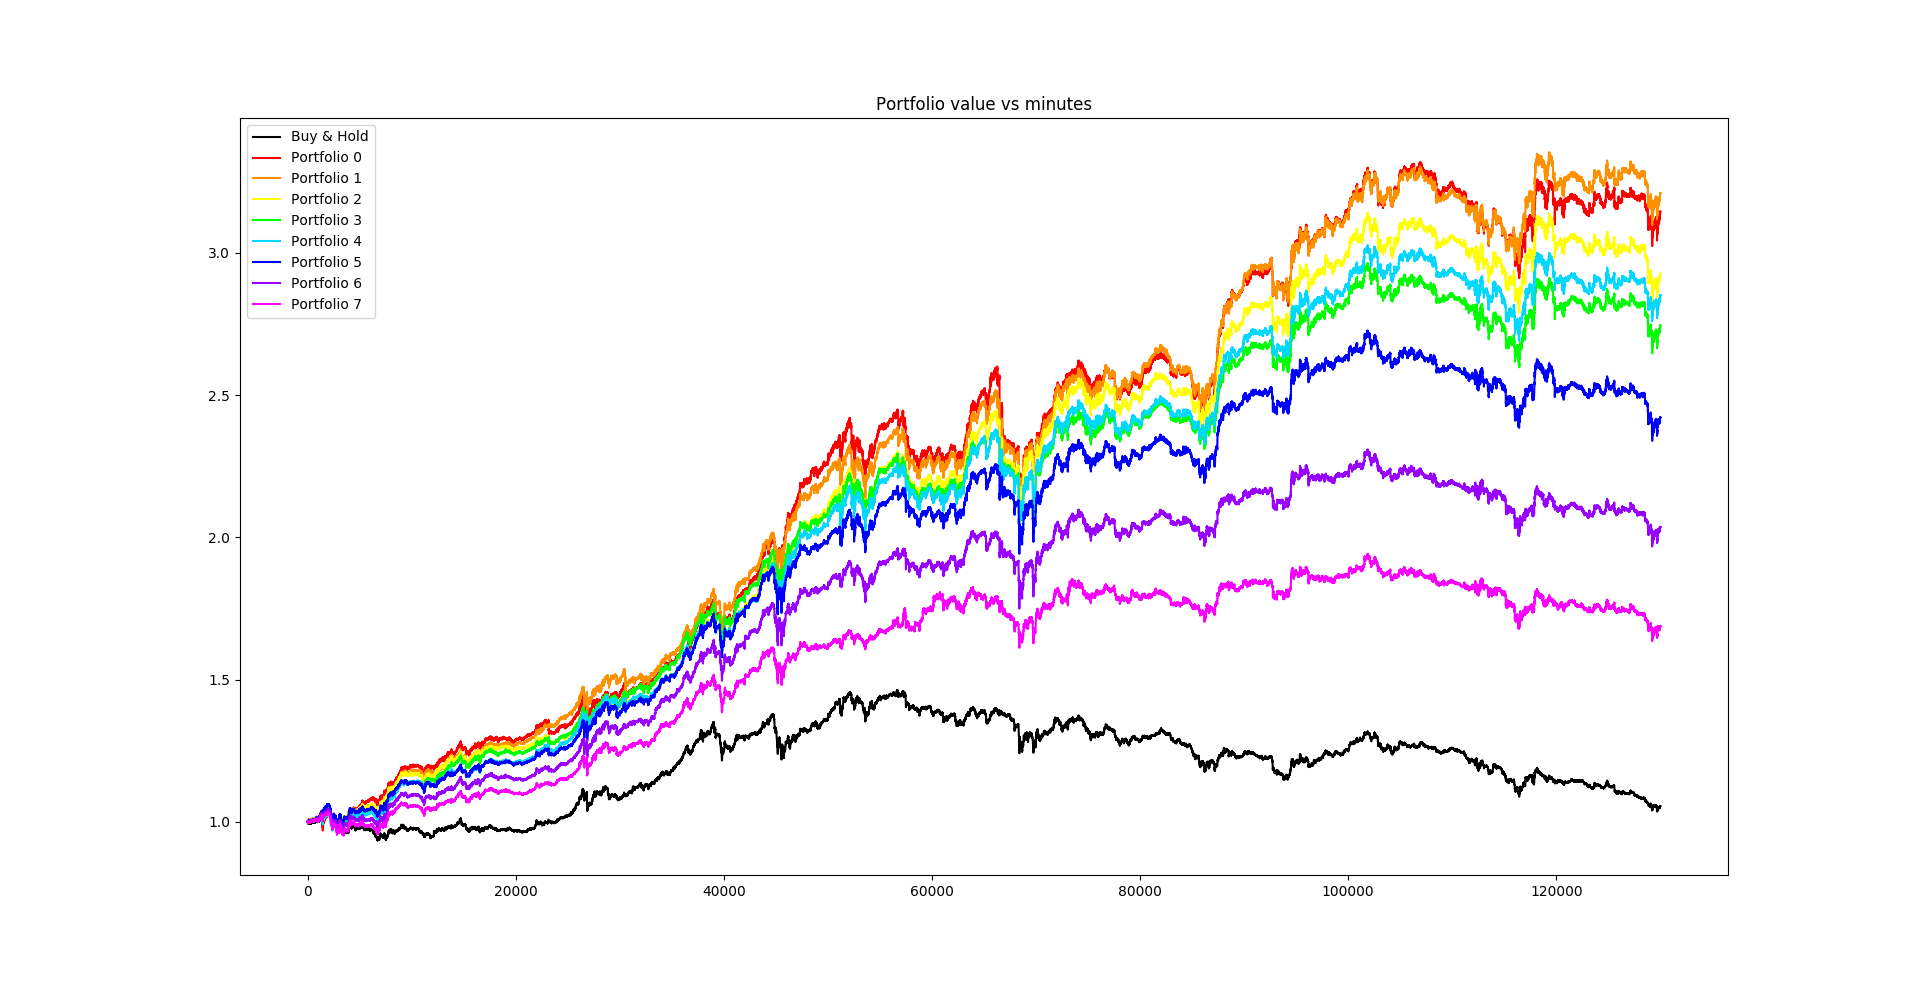
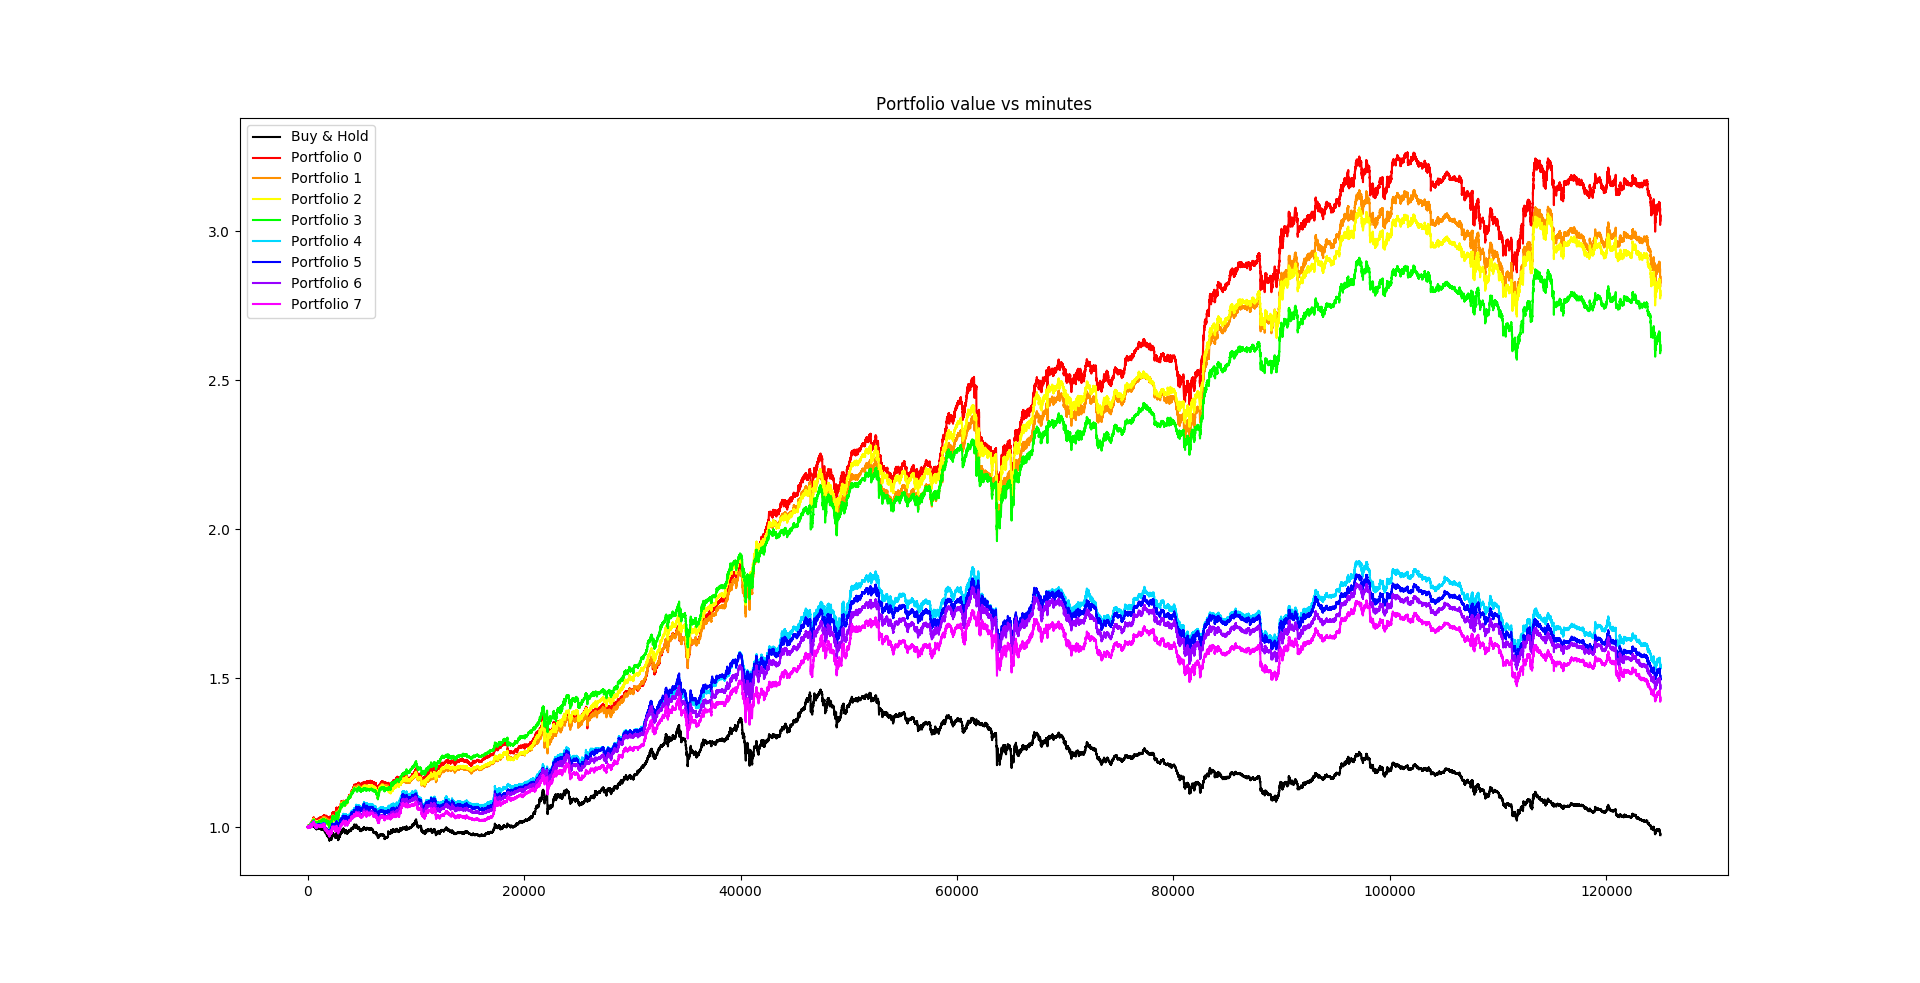
Updated results plot with variable trade intervals and fixed buy and hold

diff --git a/pamr.py b/pamr.py
@@ -201,6 +201,7 @@ symbols = ['ETH/BTC', 'XRP/BTC', 'XLM/BTC', 'ADA/BTC', 'NEO/BTC', 'XMR/BTC', 'XE
 #symbols = ['ETH/BTC', 'XRP/BTC', 'XLM/BTC', 'ADA/BTC', 'NEO/BTC', 'XMR/BTC', 'XEM/BTC', 'EOS/BTC', 'ICX/BTC', 'LTC/BTC', 'QTUM/BTC']
 #depth = 110000
 depth = 140000
+clip = 15000
 
 print('\nPortfolio symbols: ' + str(symbols))
 print('Managing ' + str(len(symbols)) + ' cryptocurrencies in each portfolio')
@@ -208,7 +209,7 @@ print('Managing ' + str(len(symbols)) + ' cryptocurrencies in each portfolio')
 data = []
 for sym in symbols:
 	symData = getData(binance, start, depth, sym)
-	symData = symData[:-10000]
+	symData = symData[:-clip]
 	valid = validateTimesteps(symData)
 	if valid:
 		print('Data valid for ' + sym)
@@ -226,12 +227,12 @@ b = [1 / float(len(symbols))] * len(symbols)
 
 # Initialize simulated portfolio
 port0 = Portfolio(symbols, 0.25, 7, 1, b)
-port1 = Portfolio(symbols, 0.25, 7, 5, b)
-port2 = Portfolio(symbols, 0.35, 7, 1, b)
-port3 = Portfolio(symbols, 0.35, 7, 5, b)
-port4 = Portfolio(symbols, 0.45, 7, 1, b)
-port5 = Portfolio(symbols, 0.45, 7, 5, b)
-port6 = Portfolio(symbols, 0.55, 7, 1, b)
+port1 = Portfolio(symbols, 0.35, 7, 1, b)
+port2 = Portfolio(symbols, 0.45, 7, 1, b)
+port3 = Portfolio(symbols, 0.55, 7, 1, b)
+port4 = Portfolio(symbols, 0.25, 7, 5, b)
+port5 = Portfolio(symbols, 0.35, 7, 5, b)
+port6 = Portfolio(symbols, 0.45, 7, 5, b)
 port7 = Portfolio(symbols, 0.55, 7, 5, b)
 
 ports = [port0, port1, port2, port3, port4, port5, port6, port7]
